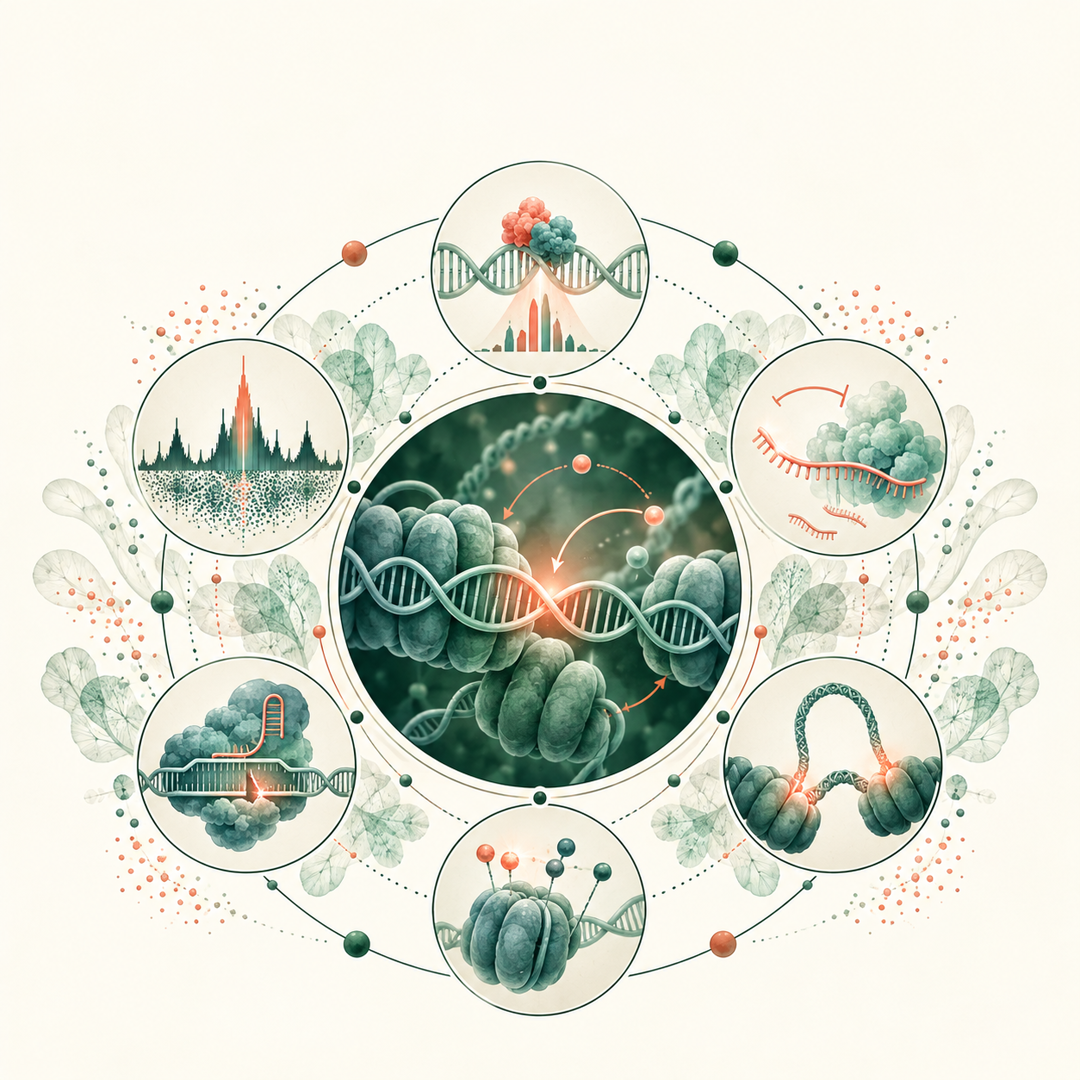
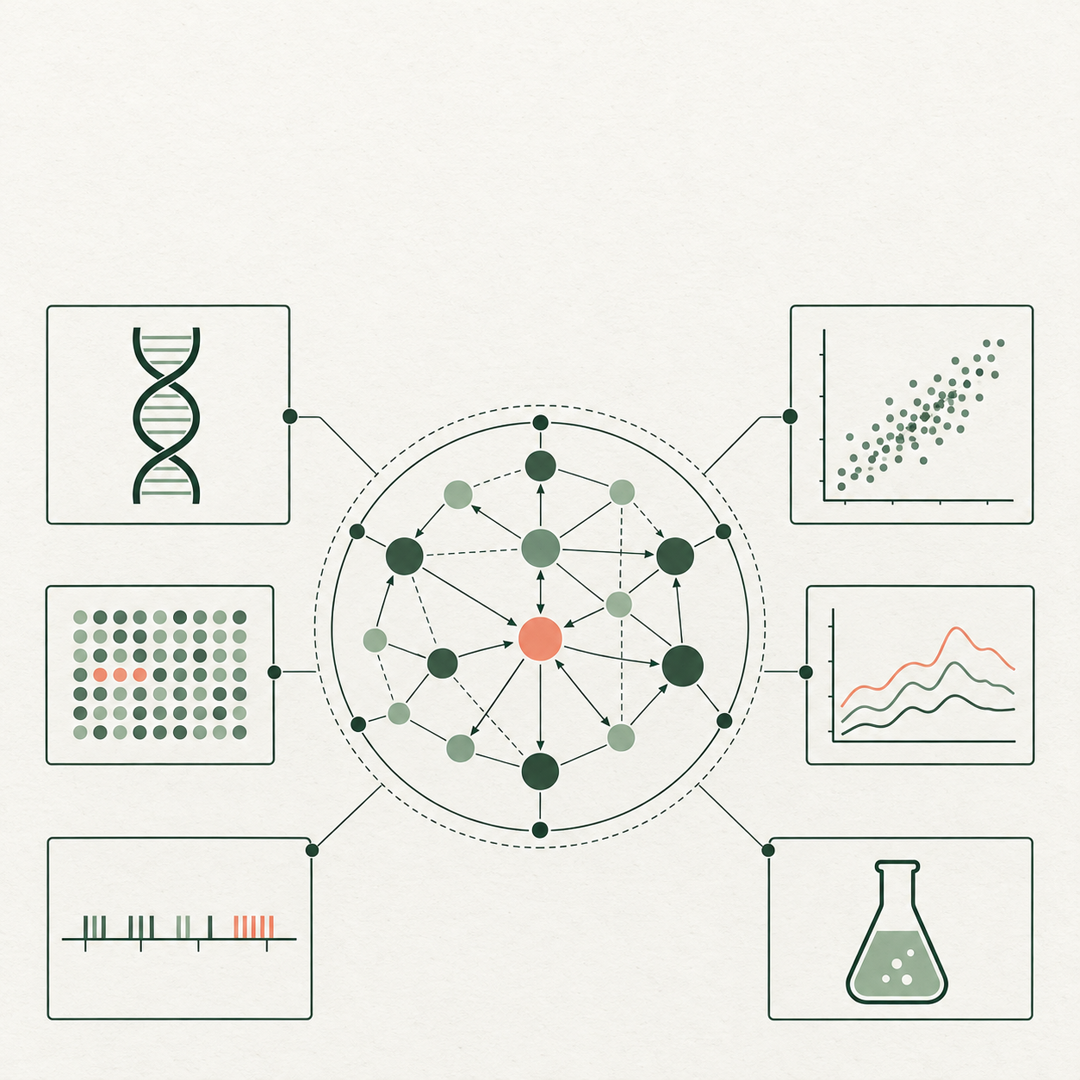
Refine Darwin skills social graphics

diff --git a/docs/social_media_posts_darwin_skills_release_2026-09-29.md b/docs/social_media_posts_darwin_skills_release_2026-09-29.md
@@ -11,8 +11,9 @@ Use Unicode bold characters where emphasis is desired. Do not use Markdown aster
 | `public/darwin-gene-regulation-skills-blog/social/darwin-skills-portrait-1080x1350.png` | 1080x1350 | Instagram feed, Threads |
 | `public/darwin-gene-regulation-skills-blog/social/darwin-skills-story-1080x1920.png` | 1080x1920 | Instagram Stories, Facebook Stories |
 
-The visuals are deliberately text-free. Use the exact benchmark figures in the
-caption or native platform text rather than adding generated image typography.
+The visuals are deliberately text-free and use a restrained methods-figure
+style rather than rendered molecular imagery. Use the exact benchmark figures
+in the caption or native platform text rather than adding generated typography.
 
 ## LinkedIn
 
